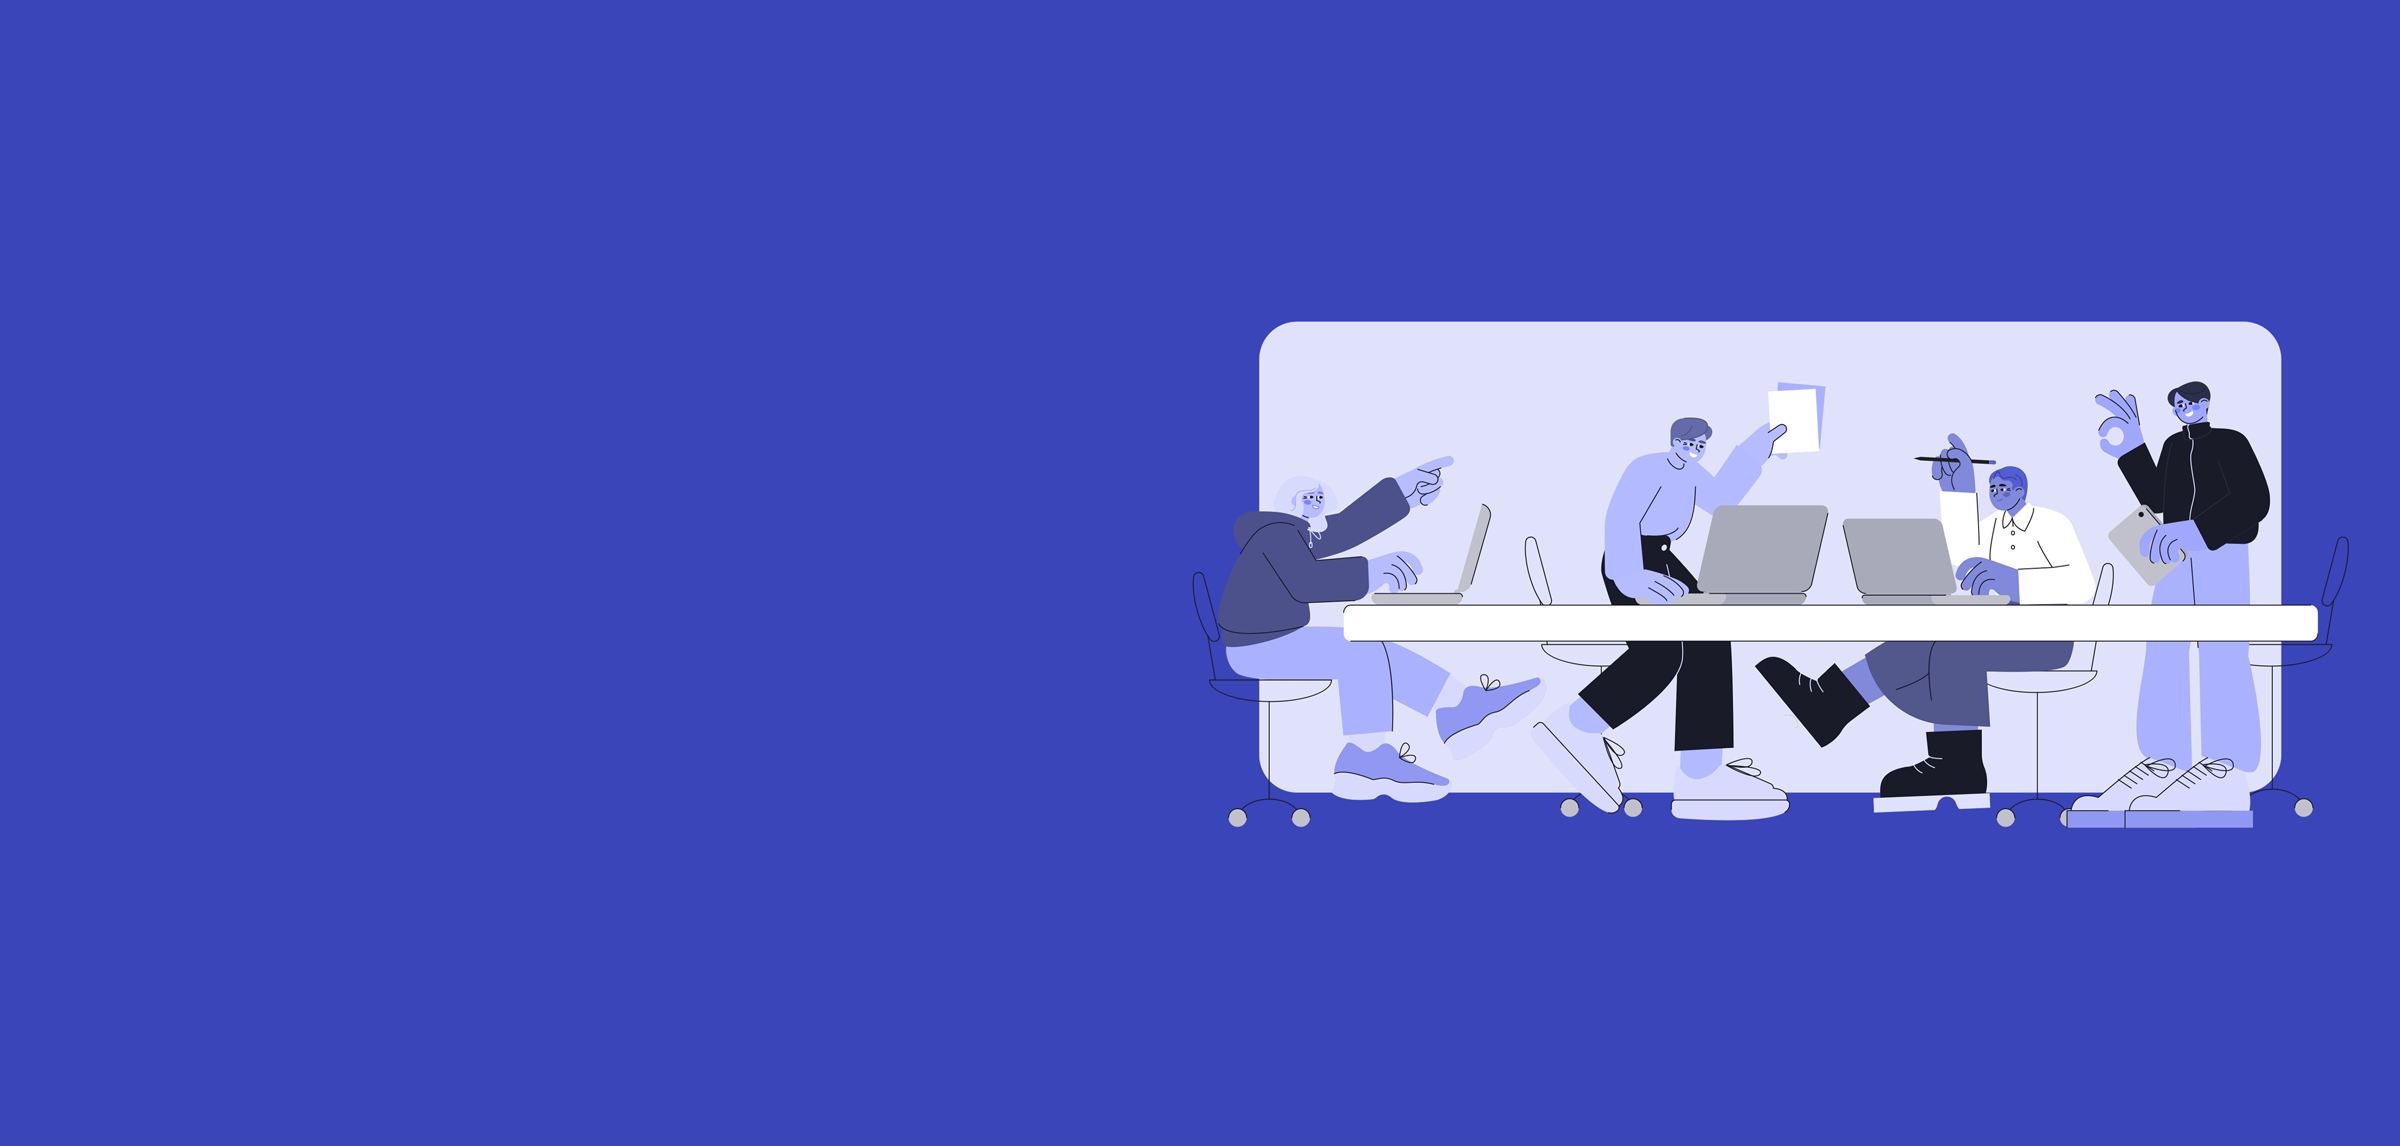
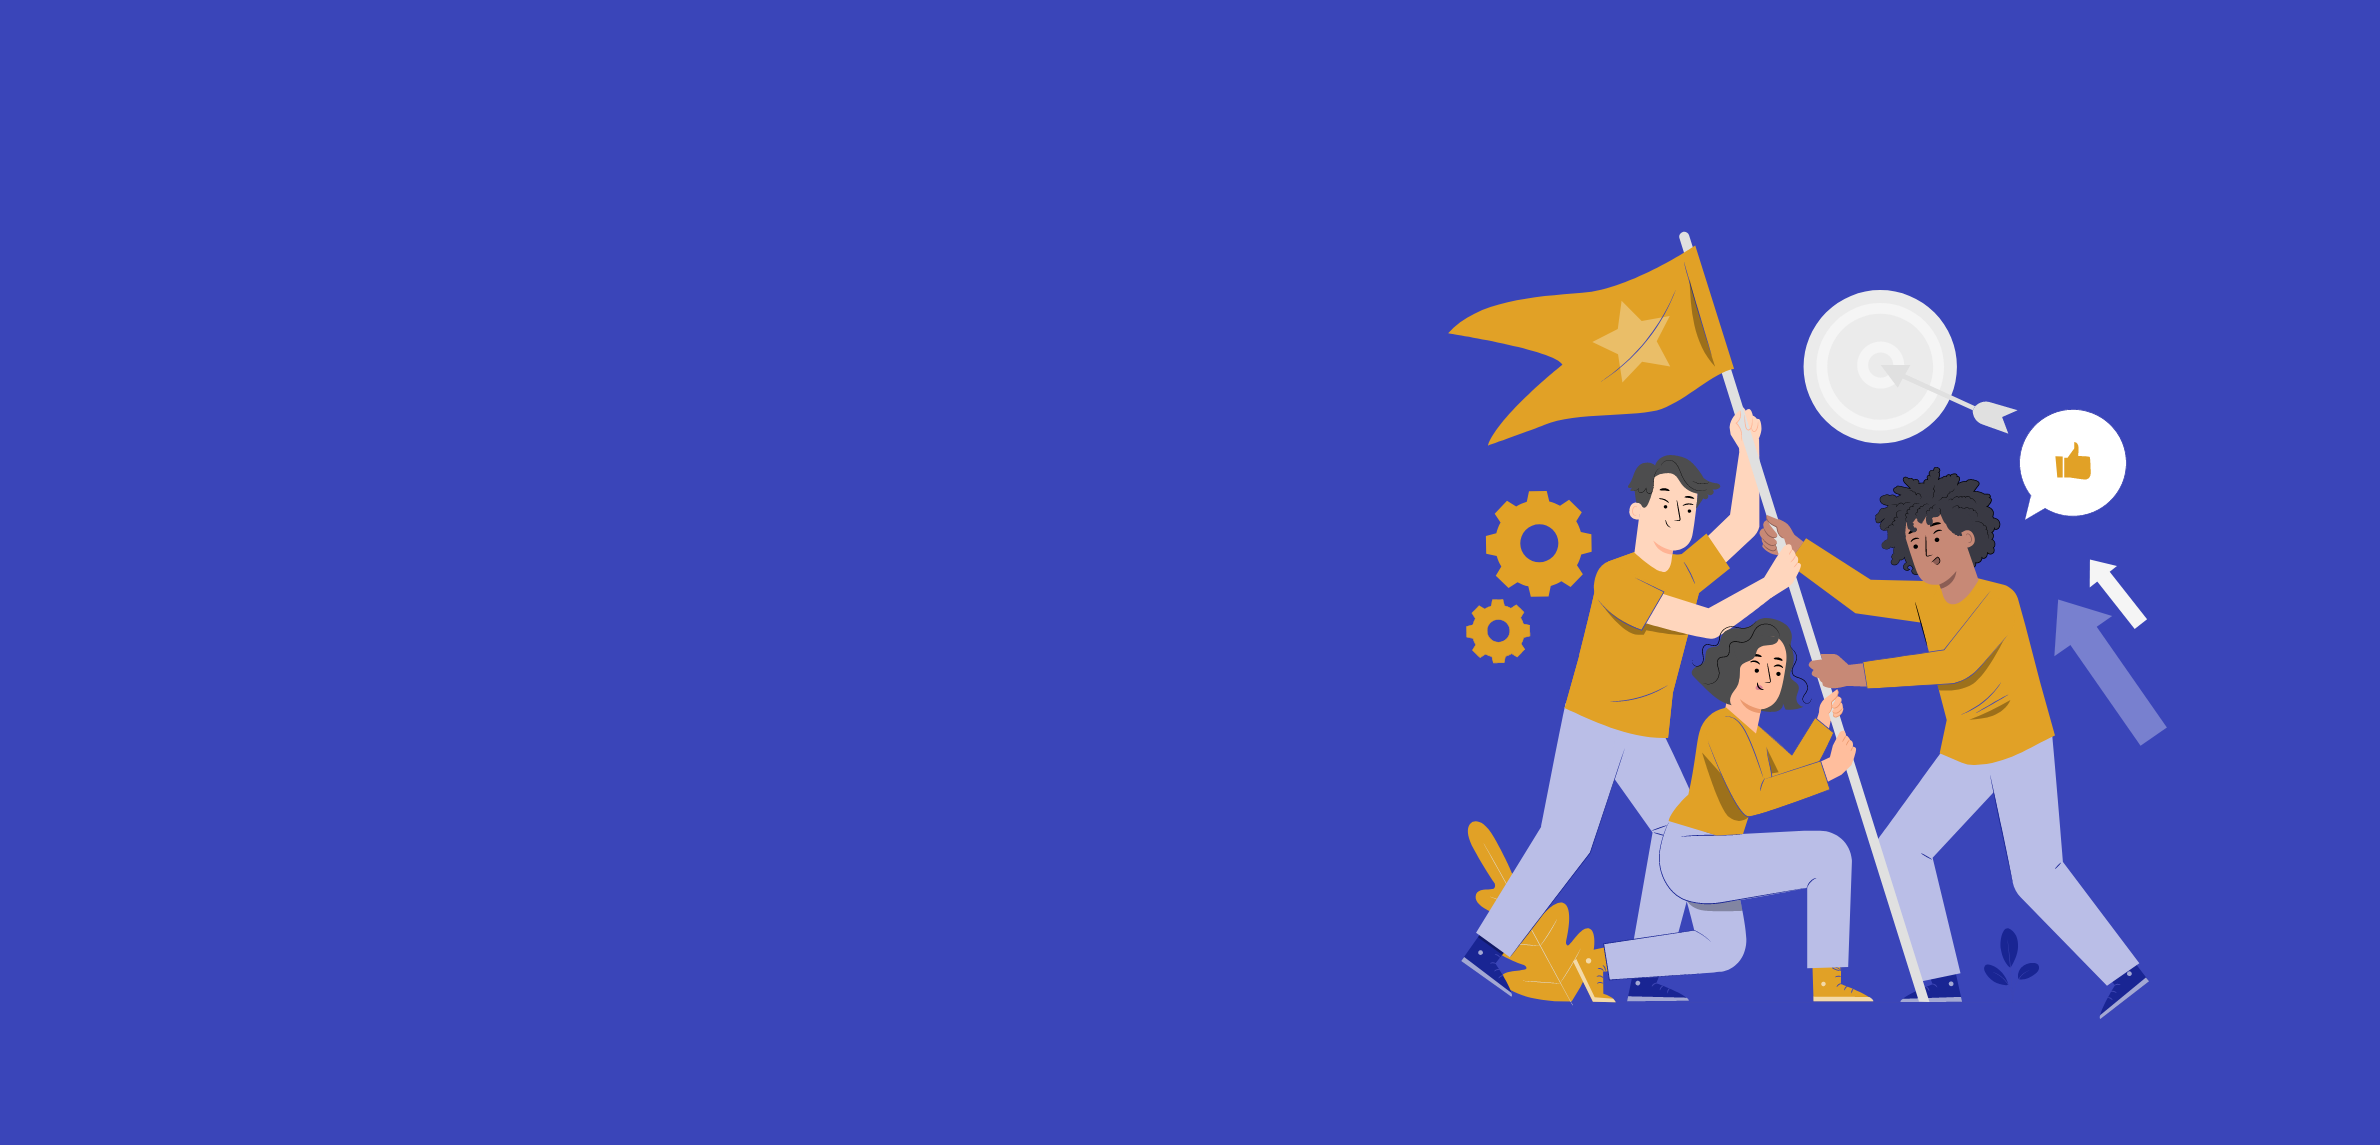
hero section edit

Changed region(s): [[0.4975, 0.214, 0.9639, 0.8865]]

diff --git a/conception/index.html b/conception/index.html
@@ -105,7 +105,20 @@
       </a>
       
     </li>
-    
+  
+      
+    <li class="menu-item">
+     
+      
+      <!-- <a class="menu-link" href="/#section-contact" data-href="#section-contact" style="padding-top: 27px; padding-bottom: 27px;">
+        <div><i class="icon-map-marker1"></i>Contact<i class="icon-angle-down"></i></div>
+      </a> -->
+      <a class="menu-link" href="/#section-contact" data-href="#section-contact" style="padding-top: 27px; padding-bottom: 27px;">
+        <div>Contact</div>
+      </a>
+      
+    </li>  
+
     <li class="menu-item">
      
       
@@ -117,18 +130,7 @@
       </a>
       
     </li>
-    
-    <li class="menu-item">
-     
-      
-      <!-- <a class="menu-link" href="/#section-contact" data-href="#section-contact" style="padding-top: 27px; padding-bottom: 27px;">
-        <div><i class="icon-map-marker1"></i>Contact<i class="icon-angle-down"></i></div>
-      </a> -->
-      <a class="menu-link" href="/#section-contact" data-href="#section-contact" style="padding-top: 27px; padding-bottom: 27px;">
-        <div>Contact</div>
-      </a>
-      
-    </li>
+
     
  
   </ul>
@@ -139,7 +141,7 @@
     </div>
     <div class="header-wrap-clone" style="height: 101px;"></div>
 </header>
-
+<!-- 
     <section id="slider" class="slider-element slider-parallax swiper_wrapper min-vh-60 min-vh-md-100 include-header">
     <div class="slider-inner">
         <div class="swiper-container swiper-parent">
@@ -205,7 +207,28 @@
         </div>
         <a href="#" data-scrollto="#content" data-offset="100" class="one-page-arrow dark"><i class="icon-angle-down infinite animated fadeInDown"></i></a>
     </div>
-</section>
+</section> -->
+
+<section id="slider" class="slider-element slider-parallax min-vh-100 include-header slider-parallax-visible" style="background: url() right top / auto 100% no-repeat rgb(255, 255, 255);">
+  <div class="slider-inner" style="transform: translate3d(0px, 0px, 0px);">
+  <div class="container py-5">
+  <div class="row align-items-center mt-4 h-100">
+  <div class="col-md-6 order-2 order-md-1 my-5 my-md-0 text-center text-md-start">
+  <div class="heading-block-costumize border-bottom-0 bottommargin-sm">
+  <h2 class="fw-bold nott fadeInUp animated" data-animate="fadeInUp" data-delay="200" style="font-size: 48px; letter-spacing: -1px;">The mini hackathon is on 25 May. Join us and participate</h2>
+  </div>
+  <a href="https://system.solicode.co/inscription" target="_blank" class="button button-3d  button-large button-rounded button-yellow  button-light   ">
+    Je m'inscris!
+</a>
+
+  </div>
+  <div class="col-md-6 order-1 order-md-2">
+  <img src="/images/slides/hero-sceane.png" alt="Yoga Image" data-animate="fadeInUp slow" data-delay="600" class="fadeInUp slow animated">
+  </div>
+  </div>
+  </div>
+  </div>
+  </section>
 
 
 

diff --git a/conception/style.css b/conception/style.css
@@ -13587,6 +13587,14 @@ h3.titular-title { font-size: 2rem; }
 	color: #333;
 }
 
+.heading-block-costumize h2 {
+	margin-bottom: 0;
+	font-weight: 700;
+	text-transform: uppercase;
+	letter-spacing: 1px;
+	color: #3A45B9;
+}
+
 .emphasis-title h1,
 .emphasis-title h2 {
 	font-weight: 400;
